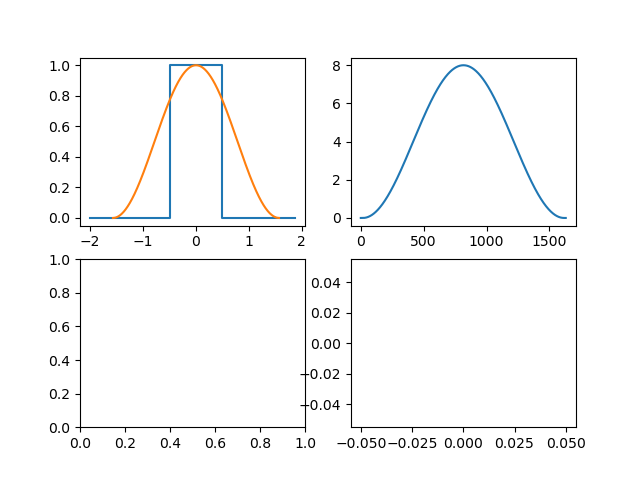
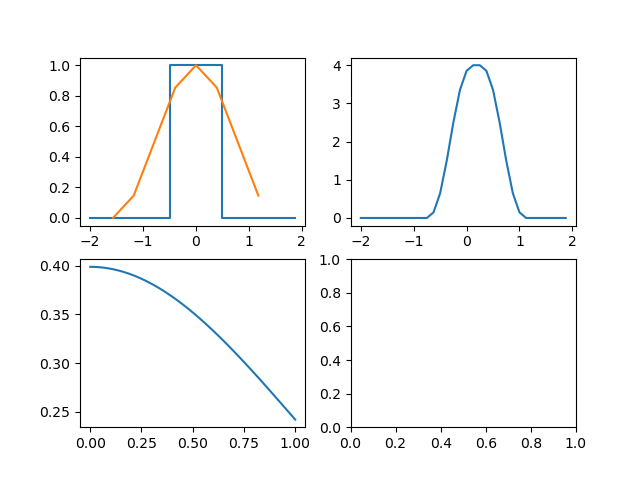
updated + new .py files

diff --git a/pybruteforce/stepfnconvolnoise.py b/pybruteforce/stepfnconvolnoise.py
@@ -1,18 +1,20 @@
 import numpy as np, matplotlib.pyplot as plt, scipy as sc
-from testfn import xstepfn,ystepfn
-from kernal import t,u1
-from convolution import continuousFourierconvol, discreteFourierconvol
-stepfn = (xstepfn,ystepfn)
-print(xstepfn.size,ystepfn.size,t,u1)
+from testfns import xstepfn,ystepfn
+from kernalfns import t,u1
+from convolution import continuousFourierconvol
+from gaussnoise import xgnoise,ygnoiserand
 #convolutestepfn
 convol_stepfn = continuousFourierconvol(ystepfn,u1)#--->contFourier used cos g1(t) is a cont. fn
 #add guass noise
-#convol_stepfn_plusnoise = ()
+noisestepfn = ygnoiserand
+convol_stepfn_plusnoise = convol_stepfn + noisestepfn
+print(convol_stepfn_plusnoise)
 #plot graphs
 figs,axs =plt.subplots(2,2)
 axs[0,0].step(xstepfn,ystepfn)
 axs[0,0].plot(t,u1)
-axs[0,1].plot(convol_stepfn)
-#axs[1,1].plot(convol_stepfn_plusnoise)
+axs[0,1].plot(xstepfn,convol_stepfn)
+axs[1,0].plot(xgnoise,noisestepfn)
+axs[1,1].plot(xgnoise,convol_stepfn_plusnoise)
 plt.savefig("stepfnbconvol.png")
 plt.show()

diff --git a/pybruteforce/testfns.py b/pybruteforce/testfns.py
@@ -1,7 +1,13 @@
-#test fn 1: unit step.fn
 import numpy as np, matplotlib.pyplot as plt
+#test fn 1: unit stepfn
 def step(x):
     return np.heaviside(x+0.5, 0) - np.heaviside(x-0.5,0) 
 n1=8
 xstepfn = np.arange(-2, 2,1/n1)
 ystepfn = step(xstepfn)
+#test fn 2: 3x3 matrix with randomly generated values between 0 --> 9
+def randvals():
+    a = np.zeros(3)
+    for i in range(0,3):
+        a[i] =np.random.randint(0,10)
+    return a

diff --git a/pybruteforce/gaussnoise.py b/pybruteforce/gaussnoise.py
@@ -1,0 +1,10 @@
+import numpy as np, matplotlib.pyplot as plt
+from scipy.stats import norm
+mean, var, skew, kurt = norm.stats(moments='mvsk')
+xgnoise = np.linspace(norm.pdf(0.00),norm.pdf(0.99),32)
+randvars = np.random.normal(0,1, size = 32)
+freezerv = norm()
+ygnoise= freezerv.pdf(xgnoise)
+ygnoiserand = ()
+plt.plot(xgnoise,ygnoise)
+plt.show()

diff --git a/pybruteforce/kernalfns.py b/pybruteforce/kernalfns.py
@@ -1,10 +1,10 @@
 import numpy as np, matplotlib.pyplot as plt
 #Test 1 g(t) = sin(t)
-from testfn import n1
+from testfns import n1
 freq = np.pi/n1
 def g1(t):
     return (np.cos(t))**2
 a = freq * (n1/2)
 b = a + freq
-t = np.arange(-a,a,freq/200)
+t = np.arange(-a,a,freq)
 u1 = g1(t)

diff --git a/pybruteforce/convolution.py b/pybruteforce/convolution.py
@@ -3,4 +3,4 @@ import numpy as np, scipy as sc
 def discreteFourierconvol(y,u):
     return np.fft.fft(y)*np.fft.fft(u)
 def continuousFourierconvol(y,u):
-    return sc.signal.convolve(y,u)
+    return sc.signal.convolve(y,u, mode = "same")
